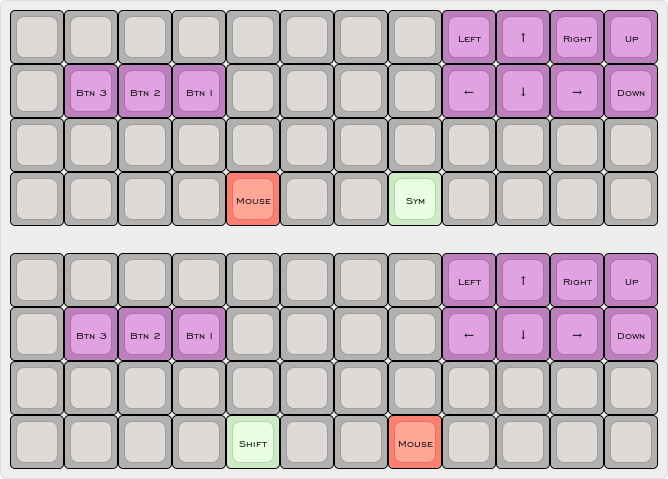
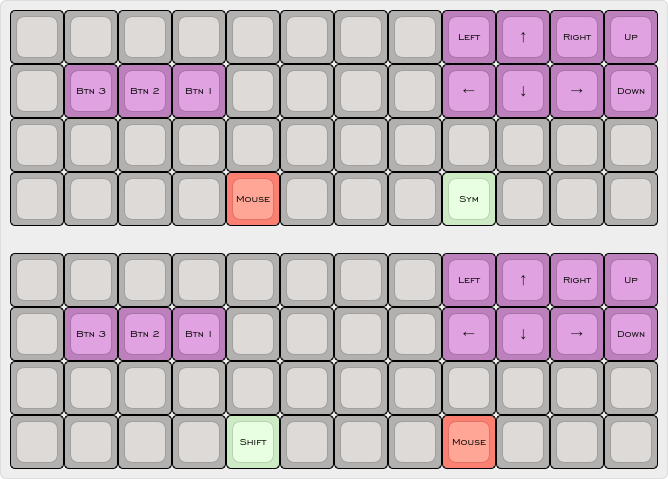
Completed symbol layers

diff --git a/keymap.c b/keymap.c
@@ -14,7 +14,8 @@ enum planck_layers {
     _LSHIFT,
     _RSHIFT,
     _MOUSE,
-    _SYMBOL
+    _SYMBOL,
+    _SYMREG
 };
 
 enum planck_keycodes {
@@ -27,7 +28,13 @@ enum planck_keycodes {
     OS_GUI  = OSM(MOD_LGUI),
     OS_SALT = OSM(MOD_LALT | MOD_LSFT),
     OS_SGUI = OSM(MOD_LGUI | MOD_LSFT),
-    LT_LEFT = LT (_SYMBOL, KC_LEFT)
+    LT_LEFT = LT (_SYMBOL, KC_LEFT),
+    LT_LFTX = LT (_SYMREG, KC_LEFT),
+    PS_CIRC,   // pseudo GUI_T(S(KC_6))
+    PS_DLR,    // pseudo SFT_T(S(KC_4))
+    PS_PERC,   // pseudo ALT_T(S(KC_5))
+    PS_LPRN,   // pseudo CTL_T(S(KC_9))
+    PS_PIPE,   // pseudo LT (_MOUSE, S(KC_BSLS))
 };
 
 
@@ -48,7 +55,8 @@ enum tap_dance {
     _LPRN,
     _RBRC,
     _RCBR,
-    _RPRN
+    _RPRN,
+    _RNGL
 };
 
 #define TD_CAPS TD(_CAPS)
@@ -62,6 +70,7 @@ enum tap_dance {
 #define TD_LBRC TD(_LBRC)
 #define TD_LCBR TD(_LCBR)
 #define TD_LPRN TD(_LPRN)
+#define TD_RNGL TD(_RNGL)
 
 //Keycodes
 #define ___x___ KC_TRNS
@@ -152,23 +161,41 @@ const uint16_t PROGMEM keymaps[][MATRIX_ROWS][MATRIX_COLS] = {
         {_______, _______, _______, _______, ___fn__, _______, _______, _______, ___fn__, _______, _______, _______},
     },
 
-   /* Symbol navigation
-    * .-----------------------------------------------------------------------------------.
-    * |   {  |   .  |   *  |   &  |   }  |      |      |      | Home |  Up  |  End | PgUp |
-    * |-----------------------------------------------------------------------------------|
-    * |   (  |   ^  |   %  |   $  |   )  |      |      |      | Left | Down | Right| PgDn |
-    * |-----------------------------------------------------------------------------------|
-    * |   [  |   #  |   @  |   !  |   ]  |      |      |      |      |      |      |      |
-    * |-----------------------------------------------------------------------------------|
-    * |      |      |      |   \  |   |  |      |      |      |  f() |      |      |      |
-    * '-----------------------------------------------------------------------------------'
-    */
+    /* Symbol navigation
+     * .-----------------------------------------------------------------------------------.
+     * |   {  |   .  |   *  |   &  |   }  |      |      |      | Home |  Up  |  End | PgUp |
+     * |-----------------------------------------------------------------------------------|
+     * |   (  |   ^  |   %  |   $  |   )  |      |      |      | Left | Down | Right| PgDn |
+     * |-----------------------------------------------------------------------------------|
+     * |   [  |   #  |   @  |   !  |   ]  |      |      |      |      |      |      |      |
+     * |-----------------------------------------------------------------------------------|
+     * |      |      |      |   \  |   |  |      |      |      |  f() |      |      |      |
+     * '-----------------------------------------------------------------------------------'
+     */
     [_SYMBOL] = {
         {KC_LCBR, KC_DOT,  KC_ASTR, KC_AMPR, TD_RCBR, _______, _______, _______, KC_HOME, KC_UP,   KC_END,  KC_PGUP},
-        {KC_LPRN, KC_CIRC, KC_PERC, KC_DLR,  TD_RPRN, _______, _______, _______, KC_LEFT, KC_DOWN, KC_RGHT, KC_PGDN},
+        {PS_LPRN, PS_CIRC, PS_PERC, PS_DLR,  TD_RPRN, _______, _______, _______, LT_LFTX, KC_DOWN, KC_RGHT, KC_PGDN},
         {KC_LBRC, KC_HASH, KC_AT,   KC_EXLM, TD_RBRC, _______, _______, _______, _______, _______, _______, _______},
-        {___x___, ___x___, ___x___, KC_BSLS, KC_PIPE, ___x___, ___x___, ___fn__, ___x___, ___x___, ___x___, ___x___},
-    }
+        {___x___, ___x___, ___x___, KC_BSLS, PS_PIPE, ___x___, ___x___, ___fn__, ___x___, ___x___, ___x___, ___x___},
+    },
+
+    /*
+     *  .-----------------------------------------------------------------------------------.
+     *  |      |   ?  |   +  |   ~  |      |      |      |      |      |      |      |      |
+     *  |-----------------------------------------------------------------------------------|
+     *  |      |   <  |   =  |   >  |      |      |      |      |  f() |      |      |      |
+     *  |-----------------------------------------------------------------------------------|
+     *  |      |   3  |   2  |   1  |      |      |      |      |      |      |      |      |
+     *  |-----------------------------------------------------------------------------------|
+     *  |      |      |      |      |      |      |      |      |  f() |      |      |      |
+     *  '-----------------------------------------------------------------------------------'
+     */
+    [_SYMREG] = {
+        {___x___, KC_QUES, KC_PLUS, KC_TILD, ___x___, _______, _______, _______, ___x___, ___x___, ___x___, ___x___},
+        {___x___, KC_LT,   KC_EQL,  TD_RNGL, ___x___, _______, _______, _______, ___fn__, ___x___, ___x___, ___x___},
+        {___x___, KC_3,    KC_2,    KC_1,    ___x___, _______, _______, _______, _______, _______, _______, _______},
+        {___x___, ___x___, ___x___, ___x___, ___x___, ___x___, ___x___, ___x___, ___fn__, ___x___, ___x___, ___x___},
+    },
 };
 
 // register simple key press
@@ -205,6 +232,22 @@ bool key_press(uint16_t keycode, uint8_t shift)
         }
     }
     return false;
+}
+
+// ALT_T, CTL_T, GUI_T, SFT_T for shifted keycodes
+void mt_shift(keyrecord_t *record, uint16_t modifier, uint16_t keycode)
+{
+  if (record->event.pressed) {
+    register_code (modifier);
+    key_timer = timer_read();
+  }
+  else {
+    unregister_code (modifier);
+    if (timer_elapsed(key_timer) < TAPPING_TERM) {
+      shift_key(keycode);
+    }
+    key_timer = 0;
+  }
 }
 
 // tap dance persistant mods, see process_record_user()
@@ -311,14 +354,14 @@ void space_reset(qk_tap_dance_state_t *state, void *user_data)
 
 void symbol_pair(uint8_t shift, uint16_t left, uint16_t right)
 {
-  if (shift & S_DOUBLE) {
-    shift_key(left);
-    shift_key(right);
-  }
-  else {
-    tap_key(left);
-    tap_key(right);
-  }
+    if (shift & S_DOUBLE) {
+        shift_key(left);
+        shift_key(right);
+    }
+    else {
+        tap_key(left);
+        tap_key(right);
+    }
 }
 
 #define CLOSE 1
@@ -326,88 +369,93 @@ void symbol_pair(uint8_t shift, uint16_t left, uint16_t right)
 // tap dance symbol pairs
 void tap_pair(qk_tap_dance_state_t *state, uint8_t shift, uint16_t left, uint16_t right, uint8_t modifier, uint8_t close)
 {
-  // triple tap: left right with cursor between symbol pair a la vim :-)
-  if (state->count > 2) {
-    symbol_pair(shift, left, right);
-    tap_key(KC_LEFT);
-  }
-  // double tap: left right
-  else if (state->count > 1) {
-    symbol_pair(shift, left, right);
-  }
-  // down: modifier
-  else if (state->pressed) {
-    if (modifier) {
-      register_code(modifier);
+    // triple tap: left right with cursor between symbol pair a la vim :-)
+    if (state->count > 2) {
+        symbol_pair(shift, left, right);
+        tap_key(KC_LEFT);
     }
-  }
-  // tap: left (close: right)
-  else {
-    if (shift & S_SINGLE) {
-      shift_key(close ? right : left);
+    // double tap: left right
+    else if (state->count > 1) {
+        symbol_pair(shift, left, right);
     }
+    // down: modifier
+    else if (state->pressed) {
+        if (modifier) {
+            register_code(modifier);
+        }
+    }
+    // tap: left (close: right)
     else {
-      tap_key(close ? right : left);
+        if (shift & S_SINGLE) {
+            shift_key(close ? right : left);
+        }
+        else {
+            tap_key(close ? right : left);
+        }
     }
-  }
-  if (!modifier) {
-    reset_tap_dance(state);
-  }
+    if (!modifier) {
+        reset_tap_dance(state);
+    }
 }
 
 void doublequote(qk_tap_dance_state_t *state, void *user_data)
 {
-  tap_pair(state, S_ALWAYS, KC_QUOT, KC_QUOT, 0, 0);
+    tap_pair(state, S_ALWAYS, KC_QUOT, KC_QUOT, 0, 0);
 }
 
 void grave(qk_tap_dance_state_t *state, void *user_data)
 {
-  tap_pair(state, S_NEVER, KC_GRV, KC_GRV, 0, 0);
+    tap_pair(state, S_NEVER, KC_GRV, KC_GRV, 0, 0);
 }
 
 void lbrace(qk_tap_dance_state_t *state, void *user_data)
 {
-  tap_pair(state, S_NEVER, KC_LBRC, KC_RBRC, 0, 0);
+    tap_pair(state, S_NEVER, KC_LBRC, KC_RBRC, 0, 0);
 }
 
 void lcurly(qk_tap_dance_state_t *state, void *user_data)
 {
-  tap_pair(state, S_ALWAYS, KC_LBRC, KC_RBRC, 0, 0);
+    tap_pair(state, S_ALWAYS, KC_LBRC, KC_RBRC, 0, 0);
 }
 
 void lparen(qk_tap_dance_state_t *state, void *user_data)
 {
-  tap_pair(state, S_ALWAYS, KC_9, KC_0, KC_LCTL, 0);
+    tap_pair(state, S_ALWAYS, KC_9, KC_0, KC_LCTL, 0);
 }
 
 void lparen_reset(qk_tap_dance_state_t *state, void *user_data)
 {
-  unregister_code(KC_LCTL);
+    unregister_code(KC_LCTL);
 }
 
 void quote(qk_tap_dance_state_t *state, void *user_data)
 {
-  tap_pair(state, S_NEVER, KC_QUOT, KC_QUOT, 0, 0);
+    tap_pair(state, S_NEVER, KC_QUOT, KC_QUOT, 0, 0);
+}
+
+void rangle(qk_tap_dance_state_t *state, void *user_data)
+{
+    tap_pair(state, S_ALWAYS, KC_COMM, KC_DOT, 0, CLOSE);
 }
 
 void rbrace(qk_tap_dance_state_t *state, void *user_data)
 {
-  tap_pair(state, S_NEVER, KC_LBRC, KC_RBRC, 0, CLOSE);
+    tap_pair(state, S_NEVER, KC_LBRC, KC_RBRC, 0, CLOSE);
 }
 
 void rcurly(qk_tap_dance_state_t *state, void *user_data)
 {
-  tap_pair(state, S_ALWAYS, KC_LBRC, KC_RBRC, 0, CLOSE);
+    tap_pair(state, S_ALWAYS, KC_LBRC, KC_RBRC, 0, CLOSE);
 }
 
 void rparen(qk_tap_dance_state_t *state, void *user_data)
 {
-  tap_pair(state, S_ALWAYS, KC_9, KC_0, KC_LCTL, CLOSE);
+    tap_pair(state, S_ALWAYS, KC_9, KC_0, KC_LCTL, CLOSE);
 }
 
 void rparen_reset(qk_tap_dance_state_t *state, void *user_data)
 {
-  unregister_code(KC_LCTL);
+    unregister_code(KC_LCTL);
 }
 
 void caps(qk_tap_dance_state_t *state, void *user_data)
@@ -431,7 +479,8 @@ qk_tap_dance_action_t tap_dance_actions[] = {
     [_LPRN] = ACTION_TAP_DANCE_FN_ADVANCED(NULL, lparen, lparen_reset),
     [_RBRC] = ACTION_TAP_DANCE_FN         (rbrace),
     [_RCBR] = ACTION_TAP_DANCE_FN         (rcurly),
-    [_RPRN] = ACTION_TAP_DANCE_FN_ADVANCED(NULL, rparen, rparen_reset)
+    [_RPRN] = ACTION_TAP_DANCE_FN_ADVANCED(NULL, rparen, rparen_reset),
+    [_RNGL] = ACTION_TAP_DANCE_FN         (rangle)
 };
 
 
@@ -520,6 +569,27 @@ bool process_record_user(uint16_t keycode, keyrecord_t *record) {
             break;
         case OS_GUI:
             tap_mods(record, KC_LGUI);
+            break;
+        case PS_CIRC:
+            // GUI_T(S(KC_6))
+            mt_shift(record, KC_LGUI, KC_6);
+            break;
+        case PS_DLR:
+            // SFT_T(S(KC_4))
+            mt_shift(record, KC_LSFT, KC_4);
+            break;
+        case PS_LPRN:
+            // CTL_T(S(KC_9))
+            mt_shift(record, KC_LCTL, KC_9);
+            break;
+        case PS_PERC:
+            // ALT_T(S(KC_5))
+            mt_shift(record, KC_LALT, KC_5);
+            break;
+        case PS_PIPE:
+            tap_layer(record, _MOUSE);
+            // LT (_MOUSE, S(KC_BSLS)) left right combination layer
+            com_layer(record, LEFT, KC_BSLS, SHIFT, _MOUSE, _SYMBOL);
             break;
     }
     return true;

diff --git a/readme.md b/readme.md
@@ -22,6 +22,10 @@ At the moment, it's a work in progress and probably not what you want to use.
 
 ![Shift Layers](layout/layer-shift.png)
 
+## Symbol layers
+
+![Symbol Layers](layout/layer-symbols.png)
+
 ## Mouse layers
 
 ![Mouse Layers](layout/layer-mouse.png)
